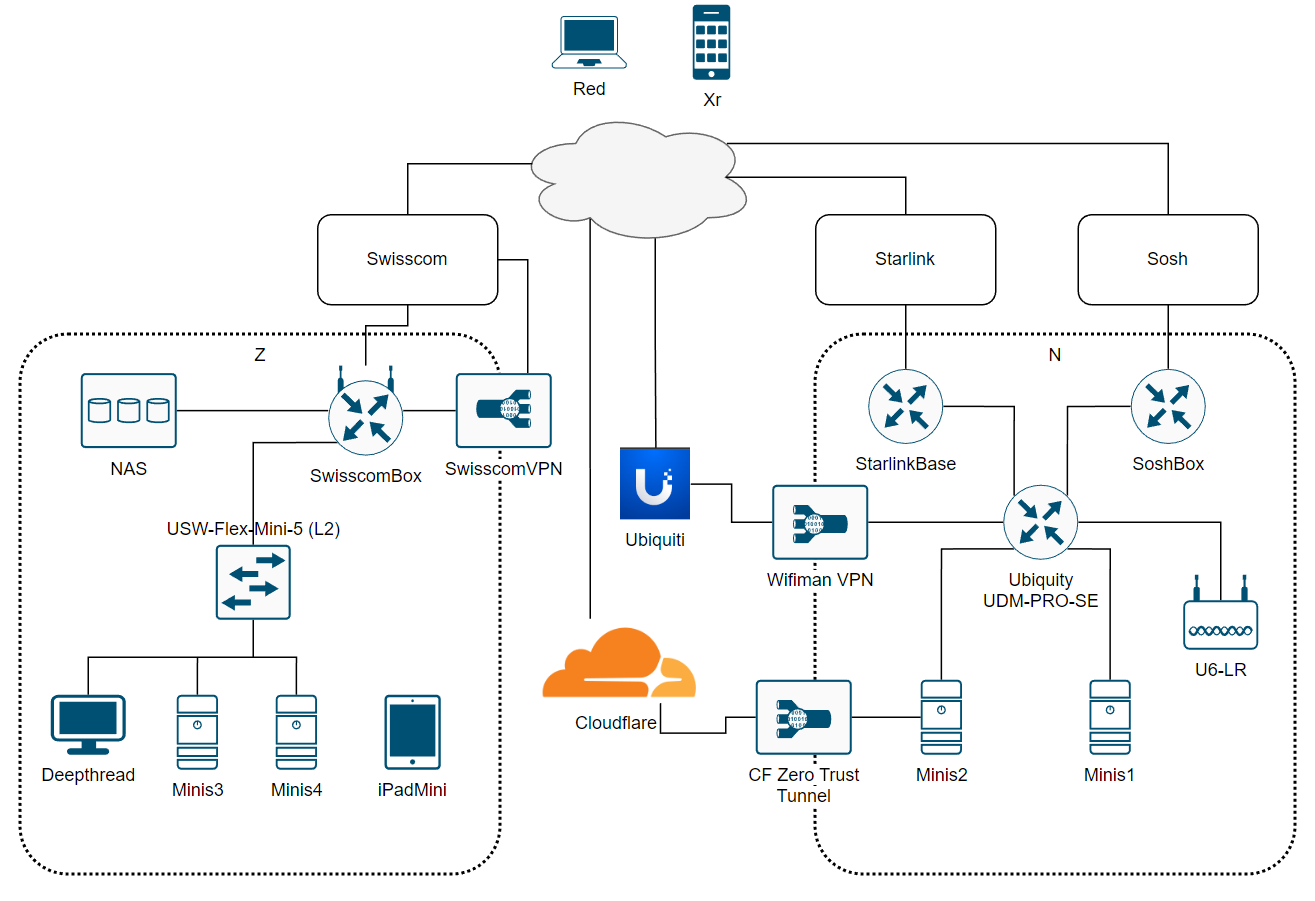
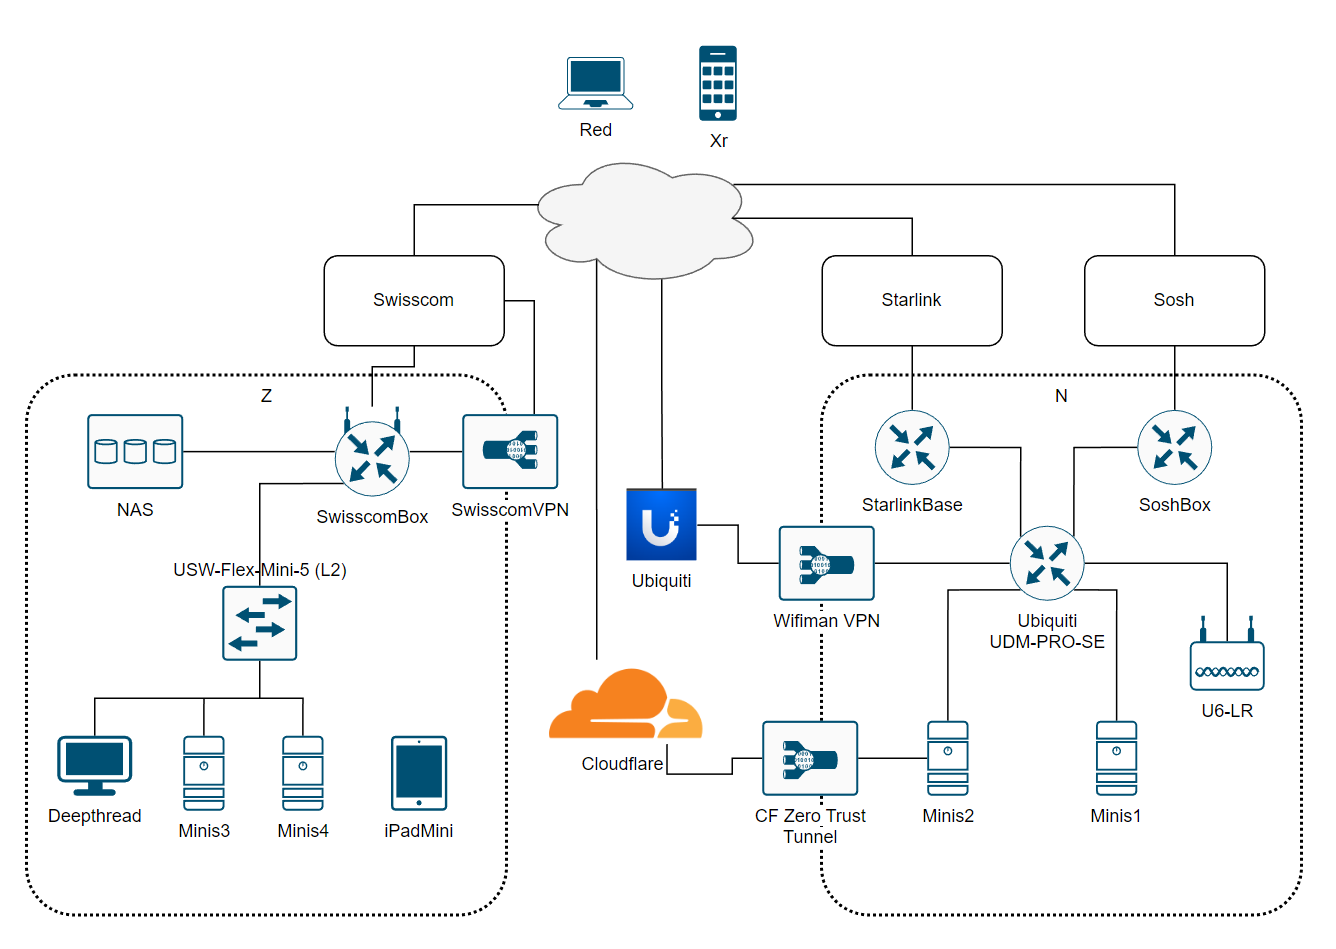
added OpenVPN solution

diff --git a/input/posts/network-vpn.md b/input/posts/network-vpn.md
@@ -36,3 +36,8 @@ On Minis2, a [cloudflared docker](https://github.com/cloudflare/cloudflared) is 
 I would like the N Minis1 & Minis2 to be able to access the Z NAS, ideally with a relatively simple connection that I can leave running all the time, to be able to pull files from the NAS and ideally also access the NAS's front-end application from inside my N location. I could connect to the SwisscomVPN every time I do something that requires connectivity to the NAS, but I would really ideally like a more permanent solution where I make the Z NAS "visible" in the N network. Or go full and establish a site-to-site VPN and simply make the two areas N and Z communicate seamlessly while still having local connectivity.
 
 Do you have any suggestions as to how best to accomplish this? 
+
+## 22.04.2023 
+I now put a OpenVPN on the Qnap NAS to act as a S2S VPN. Not sure that will be the solution I keep for the long term but it works for now.
+
+![Network](/posts/images/network/network2.drawio.svg){ width = 100% }
